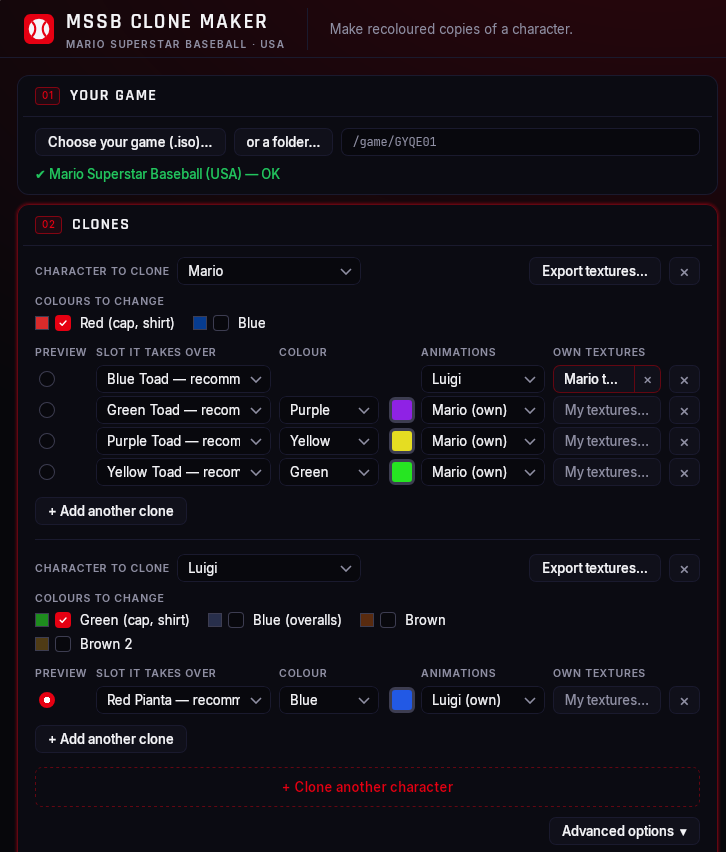
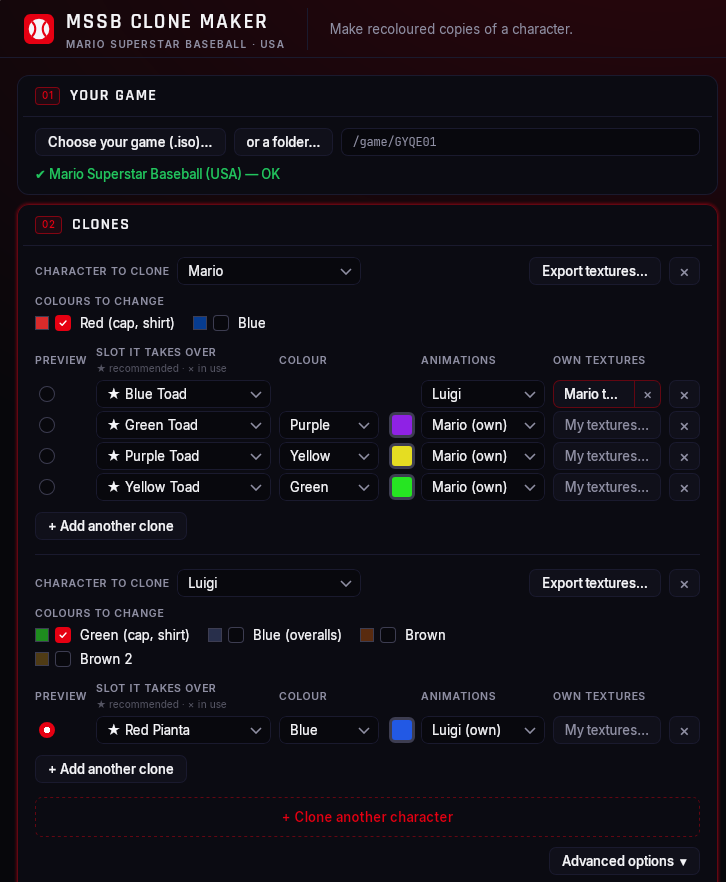
Front-page screenshot with the new slot labels; draft notes for v0.2.1-beta

diff --git a/release-notes/v0.2.1-beta.md b/release-notes/v0.2.1-beta.md
@@ -1,0 +1,34 @@
+A small update to the **MSSB Clone Maker** beta.
+
+## Download
+
+| System | File |
+|---|---|
+| Windows | **MSSB-Clone-Maker.exe**: download and double-click, nothing to install. |
+| Mac | **MSSB-Clone-Maker-Mac.zip**: unzip, then see [first launch on Mac](https://github.com/Cjericho4/mssb-modding/blob/main/tools/clonemaker/README.md#1-get-the-app). |
+
+Already using the Clone Maker? Download the new file and replace the old one. Games you made
+earlier keep working.
+
+## Fixes
+
+- **Slot names are readable.** The "Slot it takes over" list no longer cuts names off: recommended
+  slots are marked ★ and slots another character already uses are marked ×, with the full
+  explanation when you hover.
+
+## Known issues
+
+- On the select screen the big 3D character shows the cloned character in its own colours, not the
+  clone's colour.
+- Animations marked **"Some bones differ"** can look glitchy in a few moves.
+- Some recolours have rough spots, especially on Donkey Kong and Peach.
+- Not every character has been played as a clone in Rio yet (Mario, Peach, King Boo and DK have).
+- The Mac app isn't signed, so macOS blocks the first launch; the user guide shows how to open it.
+- Don't use a patched game for Rio's ranked play.
+
+## Help and feedback
+
+New to the Clone Maker? Read the
+**[user guide](https://github.com/Cjericho4/mssb-modding/blob/main/tools/clonemaker/README.md)**.
+Found a problem or have an idea? Click **Feedback** in the app or
+**[open a report](https://github.com/Cjericho4/mssb-modding/issues/new/choose)**.
